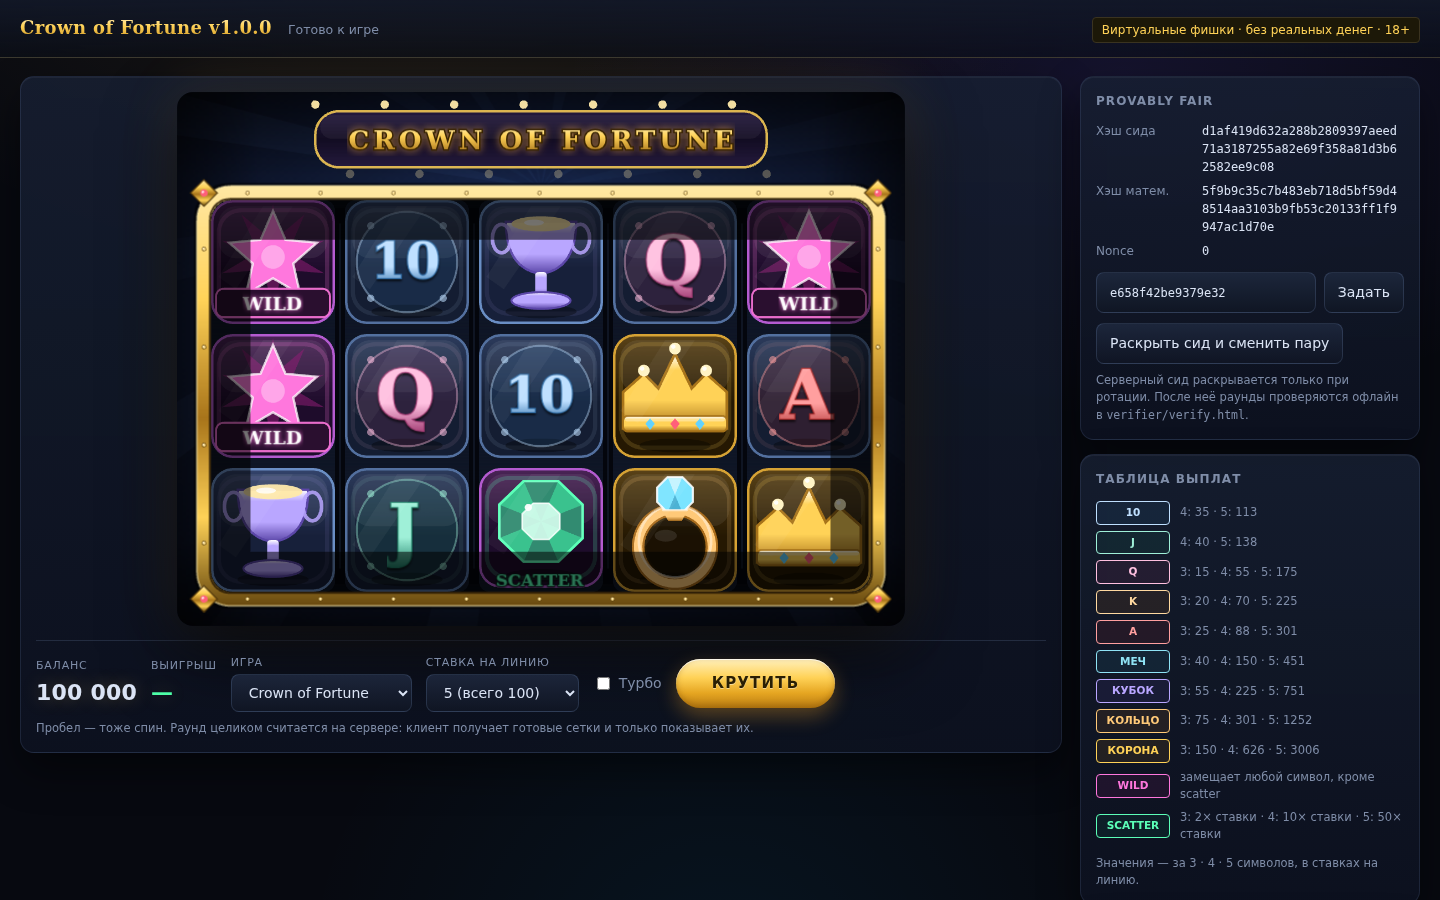
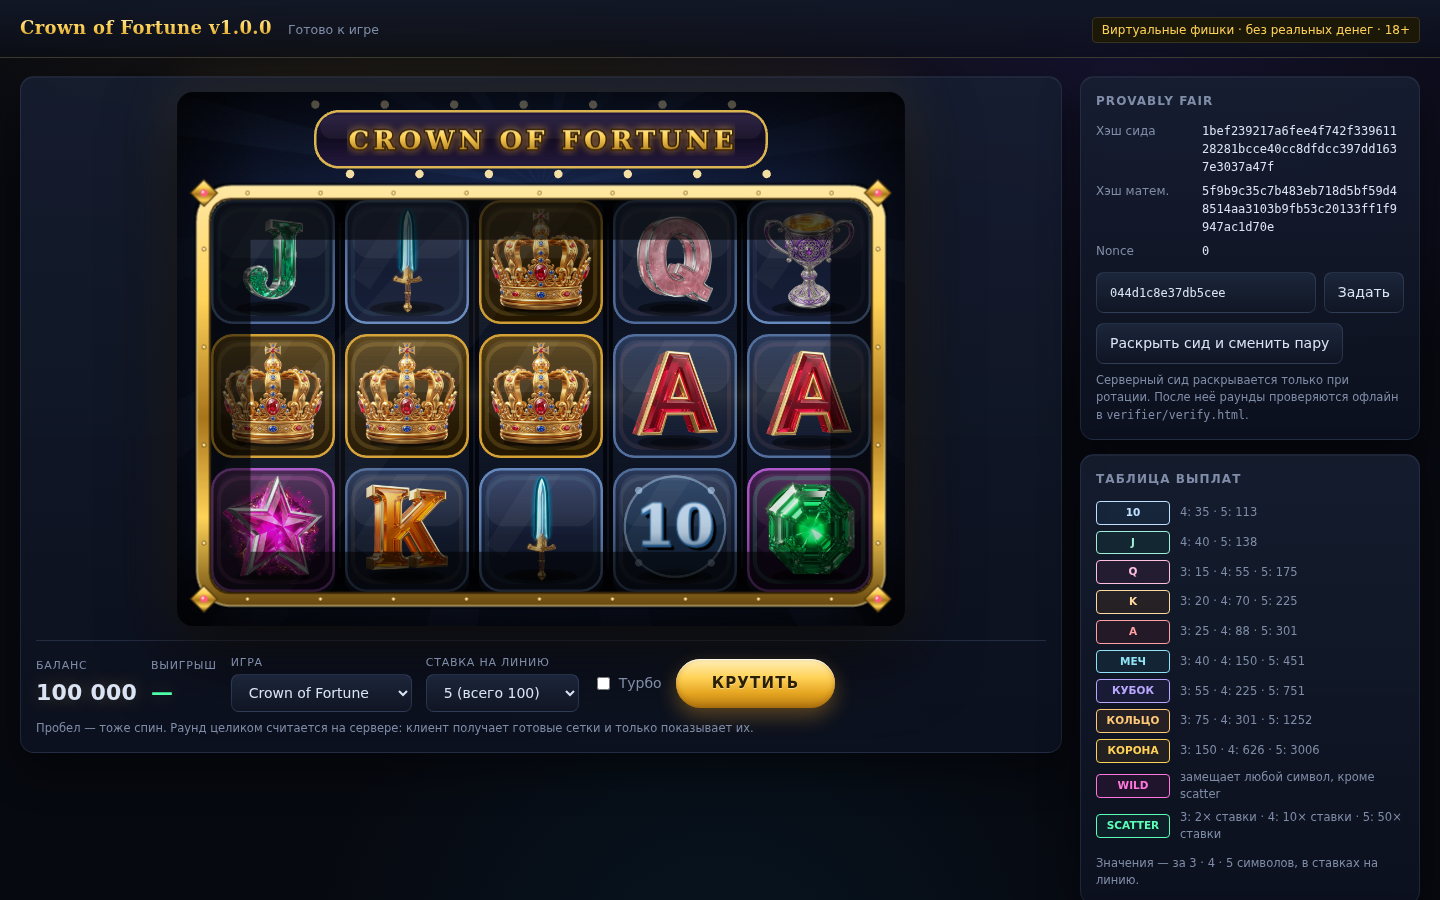
state(agents): T-193 — 3D-символы и объёмные эффекты
Agent: arena-2026-08-20-R
Task: T-193

Changed region(s): [[0.125, 0.2178, 0.625, 0.6844], [0.8438, 0.1244, 0.9688, 0.1867], [0.7812, 0.3111, 0.8438, 0.3422]]

diff --git a/agents/JOURNAL.md b/agents/JOURNAL.md
@@ -2071,3 +2071,44 @@ REFERRER_NOT_FOUND, REFEREE_NOT_FOUND, REFEREE_NOT_NEW, ALREADY_REFERRED.
   свой профиль скорости, T-192.
 
 **SHIFT END** 06:00 UTC
+
+
+---
+
+## 2026-08-20 — arena-2026-08-20-R (продолжение: 3D-графика)
+
+**SHIFT RESUME** 06:05 UTC
+Задачи: T-193
+
+### Сделано
+Символы заменены на 3D-рендеры: корона, перстень, кубок, меч, звезда-вайлд,
+изумруд-скаттер и роялы A/K/Q/J. Пайплайн: генерация 1024×1024 на чёрном
+фоне → вырезание фона в альфу по яркости с мягким порогом (12…60) →
+обрезка по содержимому → квадратный холст → 256×256 PNG. Всё вместе 1.1 МБ,
+отдаётся со своего origin. Символы кладутся на векторную плашку и
+запекаются в одну текстуру — рантайм по-прежнему только спрайты.
+
+Объёмные эффекты:
+- цилиндрическая подсветка барабана: дальние ряды в тени, центральный с
+  бликом, сверху диагональный отсвет стекла;
+- блик, пробегающий по золотой раме через маску-кольцо;
+- фонтан монет: вращение вокруг вертикальной оси через сжатие по X, полёт
+  по параболе с гравитацией, затухание;
+- параллакс задника и вывески за курсором;
+- затухающая тряска сцены на мега-выигрыше;
+- экструдированные роялы (стопка копий текста) для символов без рендера.
+
+### Проблемы / не доделано
+- Символ **10** остался векторным: за ход исчерпан лимит генерации
+  изображений (10 штук). Заведена **T-194**.
+- Исходники рендеров лежат в `client/art/src/` (1024px, ~9 МБ). Если
+  репозиторий начнёт пухнуть — вынести из git, игровые 256px в
+  `client/public/symbols/` самодостаточны.
+
+### Проверено
+- Реальный спин в браузере: 201 POST /rounds, ошибок в консоли нет.
+- Профиль сцены не просел: барабаны 15.8 FPS против 16.1 до замены
+  (софтверный рендер песочницы), пустая сцена 59 FPS.
+- Клиентские тесты 21/21.
+
+**SHIFT END** 06:30 UTC

diff --git a/agents/TASKS.md b/agents/TASKS.md
@@ -3,7 +3,7 @@
 Статусы: `todo` → `in-progress` → `blocked` / `review` → `done` / `cancelled`
 Приоритеты: `P0` критично · `P1` важно · `P2` желательно · `P3` потом
 
-**ID не переиспользуются.** Следующий свободный ID: **T-192**
+**ID не переиспользуются.** Следующий свободный ID: **T-195**
 
 ---
 
@@ -12,6 +12,8 @@
 | ID | Задача | Приоритет | Статус | Агент | Обновлено |
 |----|--------|-----------|--------|-------|-----------|
 | T-182 | Поднять PostgreSQL сервисом в CI, чтобы `*.integration.test.ts` перестали пропускаться | **P0** | todo | — | 2026-08-20 |
+| T-192 | Профиль скорости барабанов по времени, а не по кадрам | P2 | todo | — | 2026-08-20 |
+| T-194 | 3D-рендер символа 10 (упёрлись в лимит генерации за ход) | P2 | todo | — | 2026-08-20 |
 
 > Приоритет T-182 поднят до P0: развёртывание на сервере вскрыло четыре бага
 > (T-184…T-187), которые ловятся именно этими тестами. На живой базе прогон
@@ -45,6 +47,7 @@
 | T-189 | Спин не работал: пустое JSON-тело роняло демо-вход | P0 | done | arena-2026-08-20-R | 2026-08-20 |
 | T-190 | Автомат переделан под настоящую графику | P1 | done | arena-2026-08-20-R | 2026-08-20 |
 | T-191 | Производительность сцены и невидимые эффекты | P0 | done | arena-2026-08-20-R | 2026-08-20 |
+| T-193 | 3D-рендеры символов и объёмные спецэффекты | P1 | done | arena-2026-08-20-R | 2026-08-20 |
 
 ---
 

diff --git a/agents/STATE.md b/agents/STATE.md
@@ -109,6 +109,9 @@ Q-006 🔴 открыт.
   выигрыша (T-190). Внешних ассетов нет.
 - Сцена запекается в текстуры; раунд ускорился с 12 с до 4.8 с в
   софтверном рендере (T-191).
+- Символы — 3D-рендеры (10 из 11; символ 10 ждёт своей картинки, T-194).
+  Объёмные эффекты: цилиндрическая подсветка барабана, блик по раме,
+  фонтан монет, параллакс, тряска камеры (T-193).
 
 ---
 
